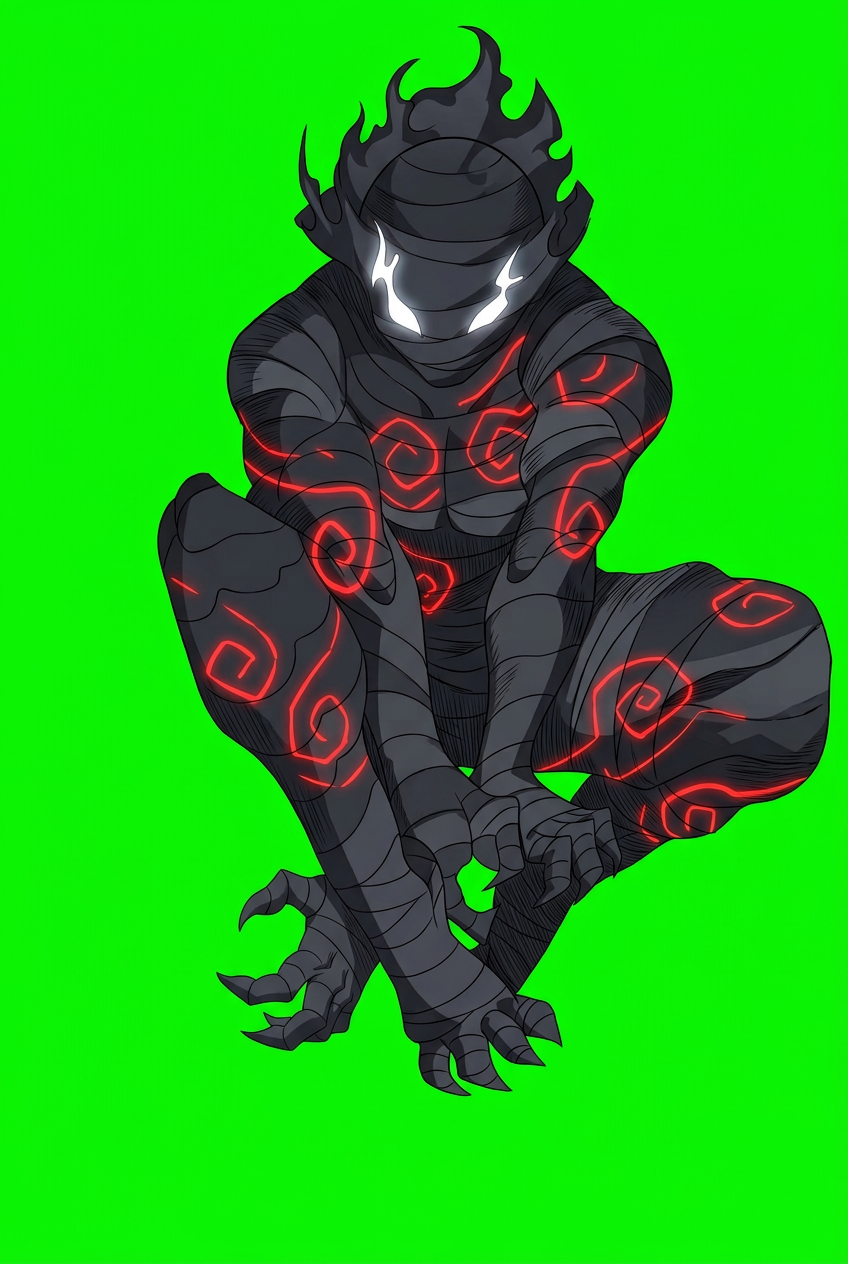
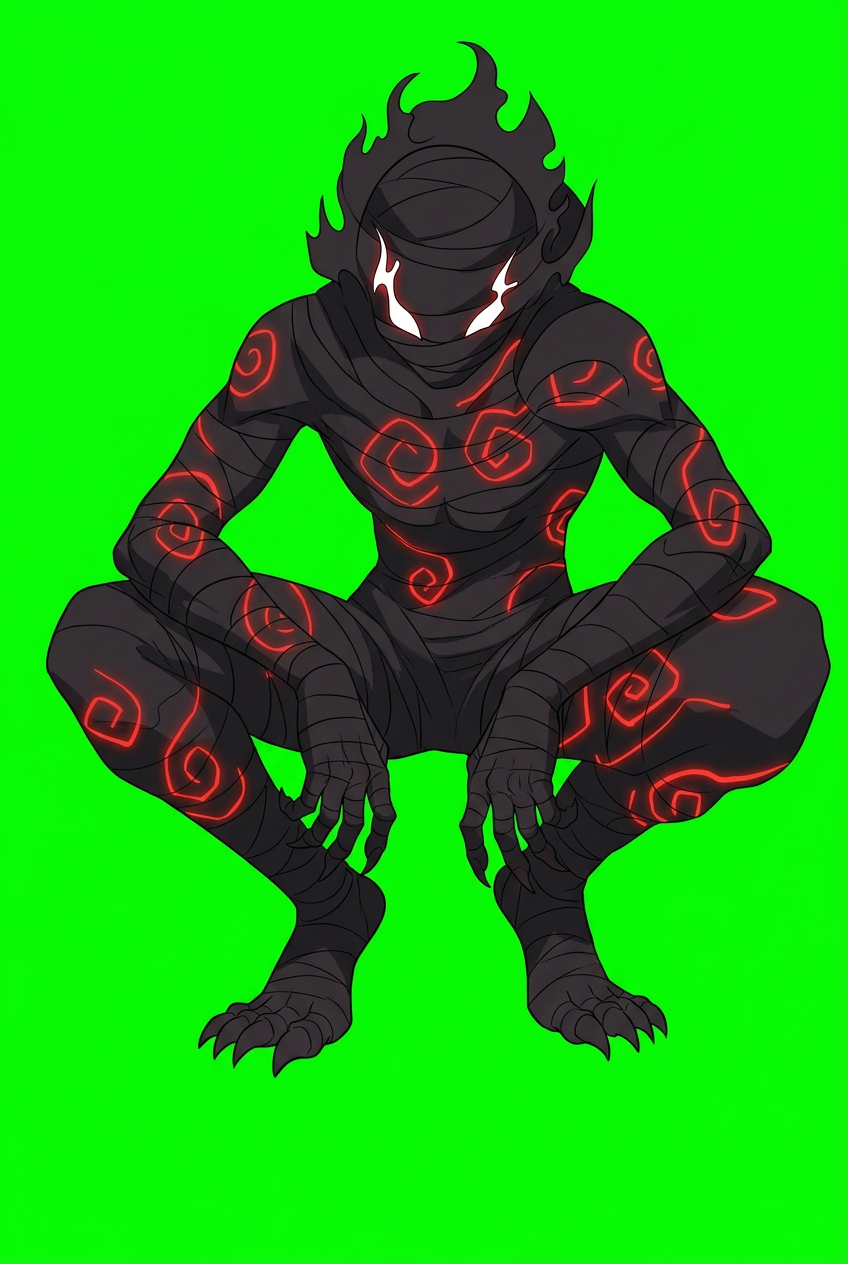
虚无吞炎 human v3: fix limbs

Changed region(s): [[0.0307, 0.0, 0.9811, 0.8639]]

diff --git a/dev/design/漫画复核进度.md b/dev/design/漫画复核进度.md
@@ -172,6 +172,8 @@
 
 | 虚无吞炎 v2（按新规则重做） | xuwu_human / xuwu_beast | 438-09 蹲伏人形原格为底、438-22 扑击兽形原格为底；布带缠身+红漩涡纹、白细眼、头顶火簇；去红光还原黑灰 | ✅ 用户确认方向A后重做 | 旧版太规整缺布带质感（用户2B） |
 
+| 虚无吞炎 人形 v3（修正） | xuwu_human | v2 下半身手爪错乱（像三只手，用户指出）→ 重画，明确两臂两腿、前臂搭膝、双爪分开下垂；全身逐处检查通过 | ✅ | 规则：每张图画完必须完整检查全身（手指/四肢数量与连接） |
+
 ## 用户决定（2026-09-27）
 - 凌影：选A——用第63话蒙面兜帽样子。
 - 云山第二形态：选A——人物图不变，半血时身后冒出魂殿黑影（特效层），招式变强。

diff --git a/dev/design/还原漫画_制作规则.md b/dev/design/还原漫画_制作规则.md
@@ -10,3 +10,7 @@
 
 ## 旧角色（2B）
 - 只重做与漫画差距明显的；先逐个对比出清单给用户确认后再重做。
+
+## 检查（用户要求）
+- 每张图画完必须完整看一遍整个角色：四肢数量、手/脚与肢体连接、手指数、有无多余或缺失部位、残留背景色斑；放大下半身和手部单独看。
+- 工作区随时清理：临时文件放 /var/tmp/w/tmp（不在工作区），工作区只留必要小文件。
